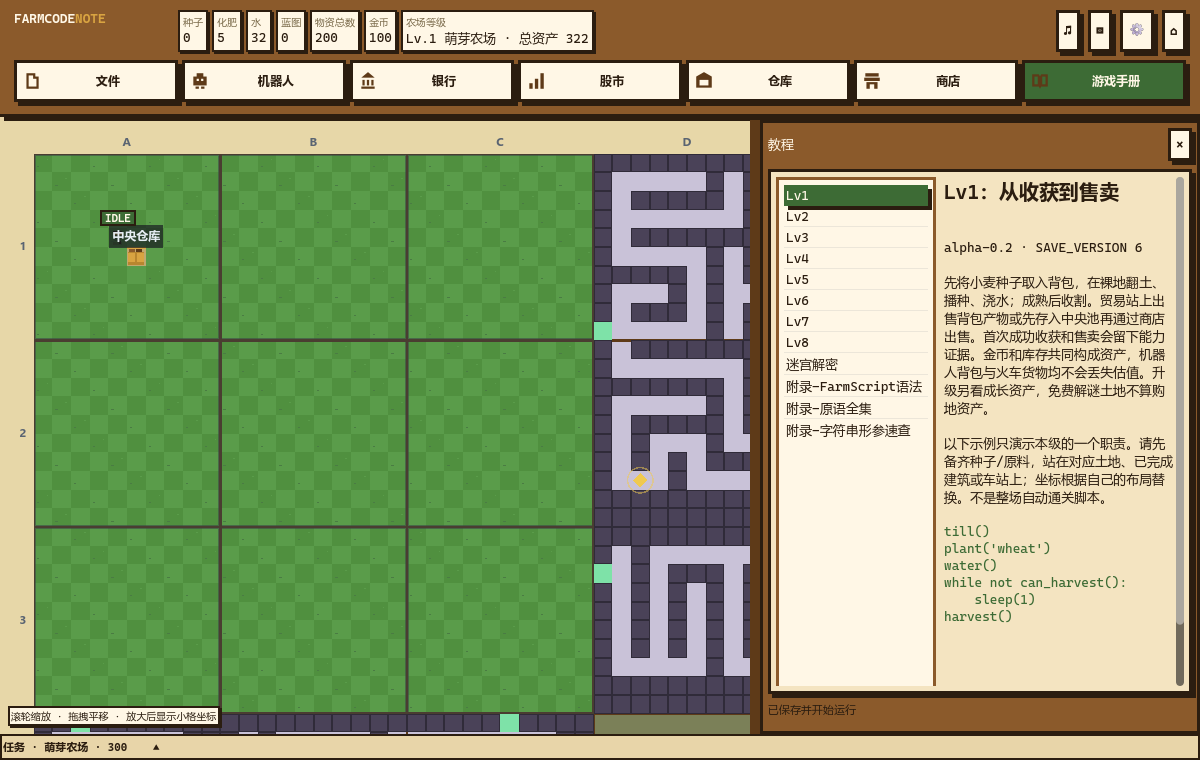
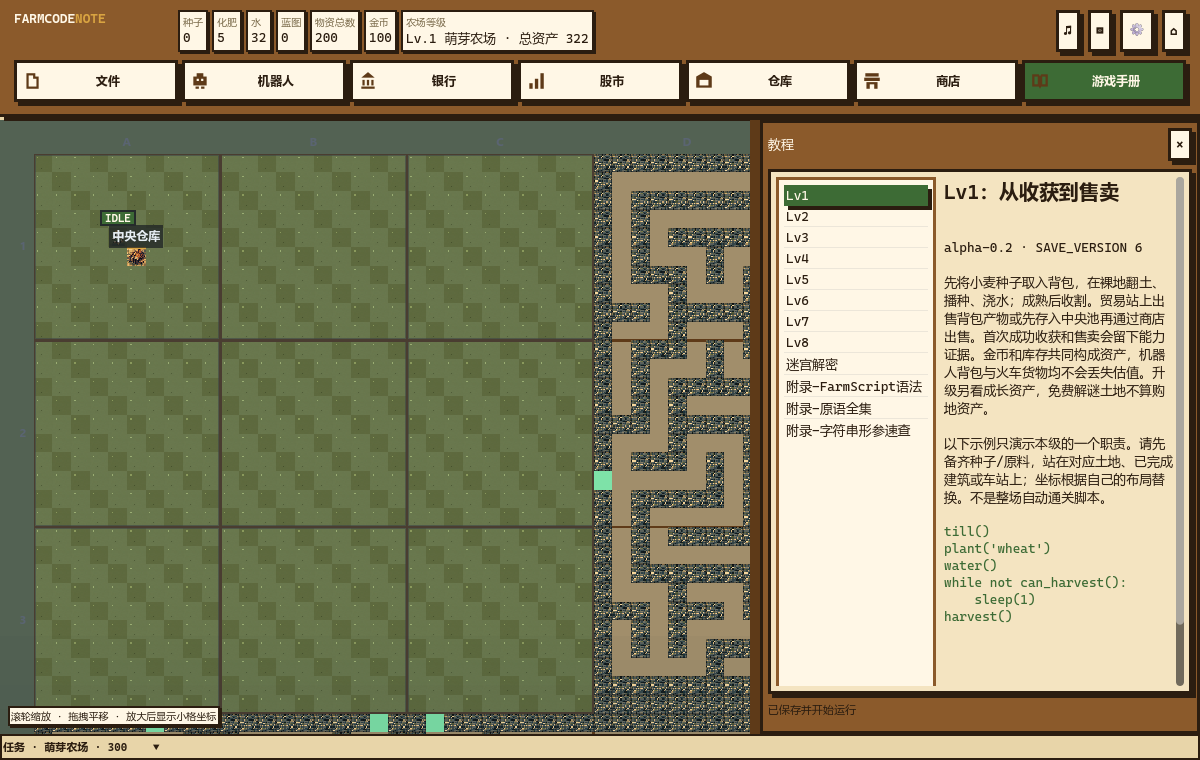
Refresh FCN gallery with independent pixel art screenshots

diff --git a/games.html b/games.html
@@ -40,71 +40,71 @@
 
     <section class="game-screenshots" id="fcn-screenshots" aria-labelledby="fcn-screenshots-title">
       <h3 class="list-title" id="fcn-screenshots-title">GODOT / 像素主题实机截图</h3>
-      <p class="screenshot-note">Windows · Godot 4.7.2 · 2026-10-09 · 1200 × 760 原图。正在迁移像素主题前端，保留 C++ 核心与 FarmScript；以下为实机静态画面。点击截图查看原图。</p>
+      <p class="screenshot-note">Windows · Godot 4.7.2 · 2026-10-10 · 1200 × 760 原图。当前开发版使用独立低分辨率像素贴图，保留 C++ 核心与 FarmScript；以下为实机静态画面，包含新版设置子菜单。截图可能领先于已发布的 alpha0.3 安装包。点击截图查看原图。</p>
       <div class="screenshot-grid">
         <figure class="screenshot-featured">
-          <a href="assets/screenshots/fcn/godot/pixel-home.png" aria-label="查看原图：主页与农场演出">
-            <img src="assets/screenshots/fcn/godot/pixel-home.png" alt="FarmCodeNote Godot 像素主题：主页与农场演出" width="1200" height="760" decoding="async">
+          <a href="assets/screenshots/fcn/godot/pixel-home.png?v=20261010" aria-label="查看原图：主页与农场演出">
+            <img src="assets/screenshots/fcn/godot/pixel-home.png?v=20261010" alt="FarmCodeNote Godot 像素主题：主页与农场演出" width="1200" height="760" decoding="async">
           </a>
           <figcaption>01 / 主页与农场演出</figcaption>
         </figure>
         <figure>
-          <a href="assets/screenshots/fcn/godot/pixel-farm.png" aria-label="查看原图：农场地图">
-            <img src="assets/screenshots/fcn/godot/pixel-farm.png" alt="FarmCodeNote Godot 像素主题：农场地图" width="1200" height="760" loading="lazy" decoding="async">
+          <a href="assets/screenshots/fcn/godot/pixel-farm.png?v=20261010" aria-label="查看原图：农场地图">
+            <img src="assets/screenshots/fcn/godot/pixel-farm.png?v=20261010" alt="FarmCodeNote Godot 像素主题：农场地图" width="1200" height="760" loading="lazy" decoding="async">
           </a>
           <figcaption>02 / 农场地图</figcaption>
         </figure>
         <figure>
-          <a href="assets/screenshots/fcn/godot/pixel-drawer.png" aria-label="查看原图：FarmScript 编程侧栏">
-            <img src="assets/screenshots/fcn/godot/pixel-drawer.png" alt="FarmCodeNote Godot 像素主题：FarmScript 编程侧栏" width="1200" height="760" loading="lazy" decoding="async">
+          <a href="assets/screenshots/fcn/godot/pixel-drawer.png?v=20261010" aria-label="查看原图：FarmScript 编程侧栏">
+            <img src="assets/screenshots/fcn/godot/pixel-drawer.png?v=20261010" alt="FarmCodeNote Godot 像素主题：FarmScript 编程侧栏" width="1200" height="760" loading="lazy" decoding="async">
           </a>
           <figcaption>03 / FarmScript 编程侧栏</figcaption>
         </figure>
         <figure>
-          <a href="assets/screenshots/fcn/godot/pixel-tasks.png" aria-label="查看原图：农场任务">
-            <img src="assets/screenshots/fcn/godot/pixel-tasks.png" alt="FarmCodeNote Godot 像素主题：农场任务" width="1200" height="760" loading="lazy" decoding="async">
+          <a href="assets/screenshots/fcn/godot/pixel-tasks.png?v=20261010" aria-label="查看原图：农场任务">
+            <img src="assets/screenshots/fcn/godot/pixel-tasks.png?v=20261010" alt="FarmCodeNote Godot 像素主题：农场任务" width="1200" height="760" loading="lazy" decoding="async">
           </a>
           <figcaption>04 / 农场任务</figcaption>
         </figure>
         <figure>
-          <a href="assets/screenshots/fcn/godot/pixel-warehouse.png" aria-label="查看原图：仓库管理">
-            <img src="assets/screenshots/fcn/godot/pixel-warehouse.png" alt="FarmCodeNote Godot 像素主题：仓库管理" width="1200" height="760" loading="lazy" decoding="async">
+          <a href="assets/screenshots/fcn/godot/pixel-warehouse.png?v=20261010" aria-label="查看原图：仓库管理">
+            <img src="assets/screenshots/fcn/godot/pixel-warehouse.png?v=20261010" alt="FarmCodeNote Godot 像素主题：仓库管理" width="1200" height="760" loading="lazy" decoding="async">
           </a>
           <figcaption>05 / 仓库管理</figcaption>
         </figure>
         <figure>
-          <a href="assets/screenshots/fcn/godot/pixel-shop.png" aria-label="查看原图：商店">
-            <img src="assets/screenshots/fcn/godot/pixel-shop.png" alt="FarmCodeNote Godot 像素主题：商店" width="1200" height="760" loading="lazy" decoding="async">
+          <a href="assets/screenshots/fcn/godot/pixel-shop.png?v=20261010" aria-label="查看原图：商店">
+            <img src="assets/screenshots/fcn/godot/pixel-shop.png?v=20261010" alt="FarmCodeNote Godot 像素主题：商店" width="1200" height="760" loading="lazy" decoding="async">
           </a>
           <figcaption>06 / 商店</figcaption>
         </figure>
         <figure>
-          <a href="assets/screenshots/fcn/godot/pixel-stock.png" aria-label="查看原图：股市">
-            <img src="assets/screenshots/fcn/godot/pixel-stock.png" alt="FarmCodeNote Godot 像素主题：股市" width="1200" height="760" loading="lazy" decoding="async">
+          <a href="assets/screenshots/fcn/godot/pixel-stock.png?v=20261010" aria-label="查看原图：股市">
+            <img src="assets/screenshots/fcn/godot/pixel-stock.png?v=20261010" alt="FarmCodeNote Godot 像素主题：股市" width="1200" height="760" loading="lazy" decoding="async">
           </a>
           <figcaption>07 / 股市</figcaption>
         </figure>
         <figure>
-          <a href="assets/screenshots/fcn/godot/pixel-bank.png" aria-label="查看原图：银行">
-            <img src="assets/screenshots/fcn/godot/pixel-bank.png" alt="FarmCodeNote Godot 像素主题：银行" width="1200" height="760" loading="lazy" decoding="async">
+          <a href="assets/screenshots/fcn/godot/pixel-bank.png?v=20261010" aria-label="查看原图：银行">
+            <img src="assets/screenshots/fcn/godot/pixel-bank.png?v=20261010" alt="FarmCodeNote Godot 像素主题：银行" width="1200" height="760" loading="lazy" decoding="async">
           </a>
           <figcaption>08 / 银行</figcaption>
         </figure>
         <figure>
-          <a href="assets/screenshots/fcn/godot/pixel-book.png" aria-label="查看原图：游戏手册">
-            <img src="assets/screenshots/fcn/godot/pixel-book.png" alt="FarmCodeNote Godot 像素主题：游戏手册" width="1200" height="760" loading="lazy" decoding="async">
+          <a href="assets/screenshots/fcn/godot/pixel-book.png?v=20261010" aria-label="查看原图：游戏手册">
+            <img src="assets/screenshots/fcn/godot/pixel-book.png?v=20261010" alt="FarmCodeNote Godot 像素主题：游戏手册" width="1200" height="760" loading="lazy" decoding="async">
           </a>
           <figcaption>09 / 游戏手册</figcaption>
         </figure>
         <figure>
-          <a href="assets/screenshots/fcn/godot/pixel-settings.png" aria-label="查看原图：设置">
-            <img src="assets/screenshots/fcn/godot/pixel-settings.png" alt="FarmCodeNote Godot 像素主题：设置" width="1200" height="760" loading="lazy" decoding="async">
+          <a href="assets/screenshots/fcn/godot/pixel-settings.png?v=20261010" aria-label="查看原图：游戏内设置子菜单">
+            <img src="assets/screenshots/fcn/godot/pixel-settings.png?v=20261010" alt="FarmCodeNote Godot 像素主题：游戏内设置子菜单与当前难度" width="1200" height="760" loading="lazy" decoding="async">
           </a>
-          <figcaption>10 / 设置</figcaption>
+          <figcaption>10 / 游戏内设置子菜单</figcaption>
         </figure>
         <figure>
-          <a href="assets/screenshots/fcn/godot/pixel-story.png" aria-label="查看原图：剧情对话">
-            <img src="assets/screenshots/fcn/godot/pixel-story.png" alt="FarmCodeNote Godot 像素主题：剧情对话" width="1200" height="760" loading="lazy" decoding="async">
+          <a href="assets/screenshots/fcn/godot/pixel-story.png?v=20261010" aria-label="查看原图：剧情对话">
+            <img src="assets/screenshots/fcn/godot/pixel-story.png?v=20261010" alt="FarmCodeNote Godot 像素主题：剧情对话" width="1200" height="760" loading="lazy" decoding="async">
           </a>
           <figcaption>11 / 剧情对话</figcaption>
         </figure>
